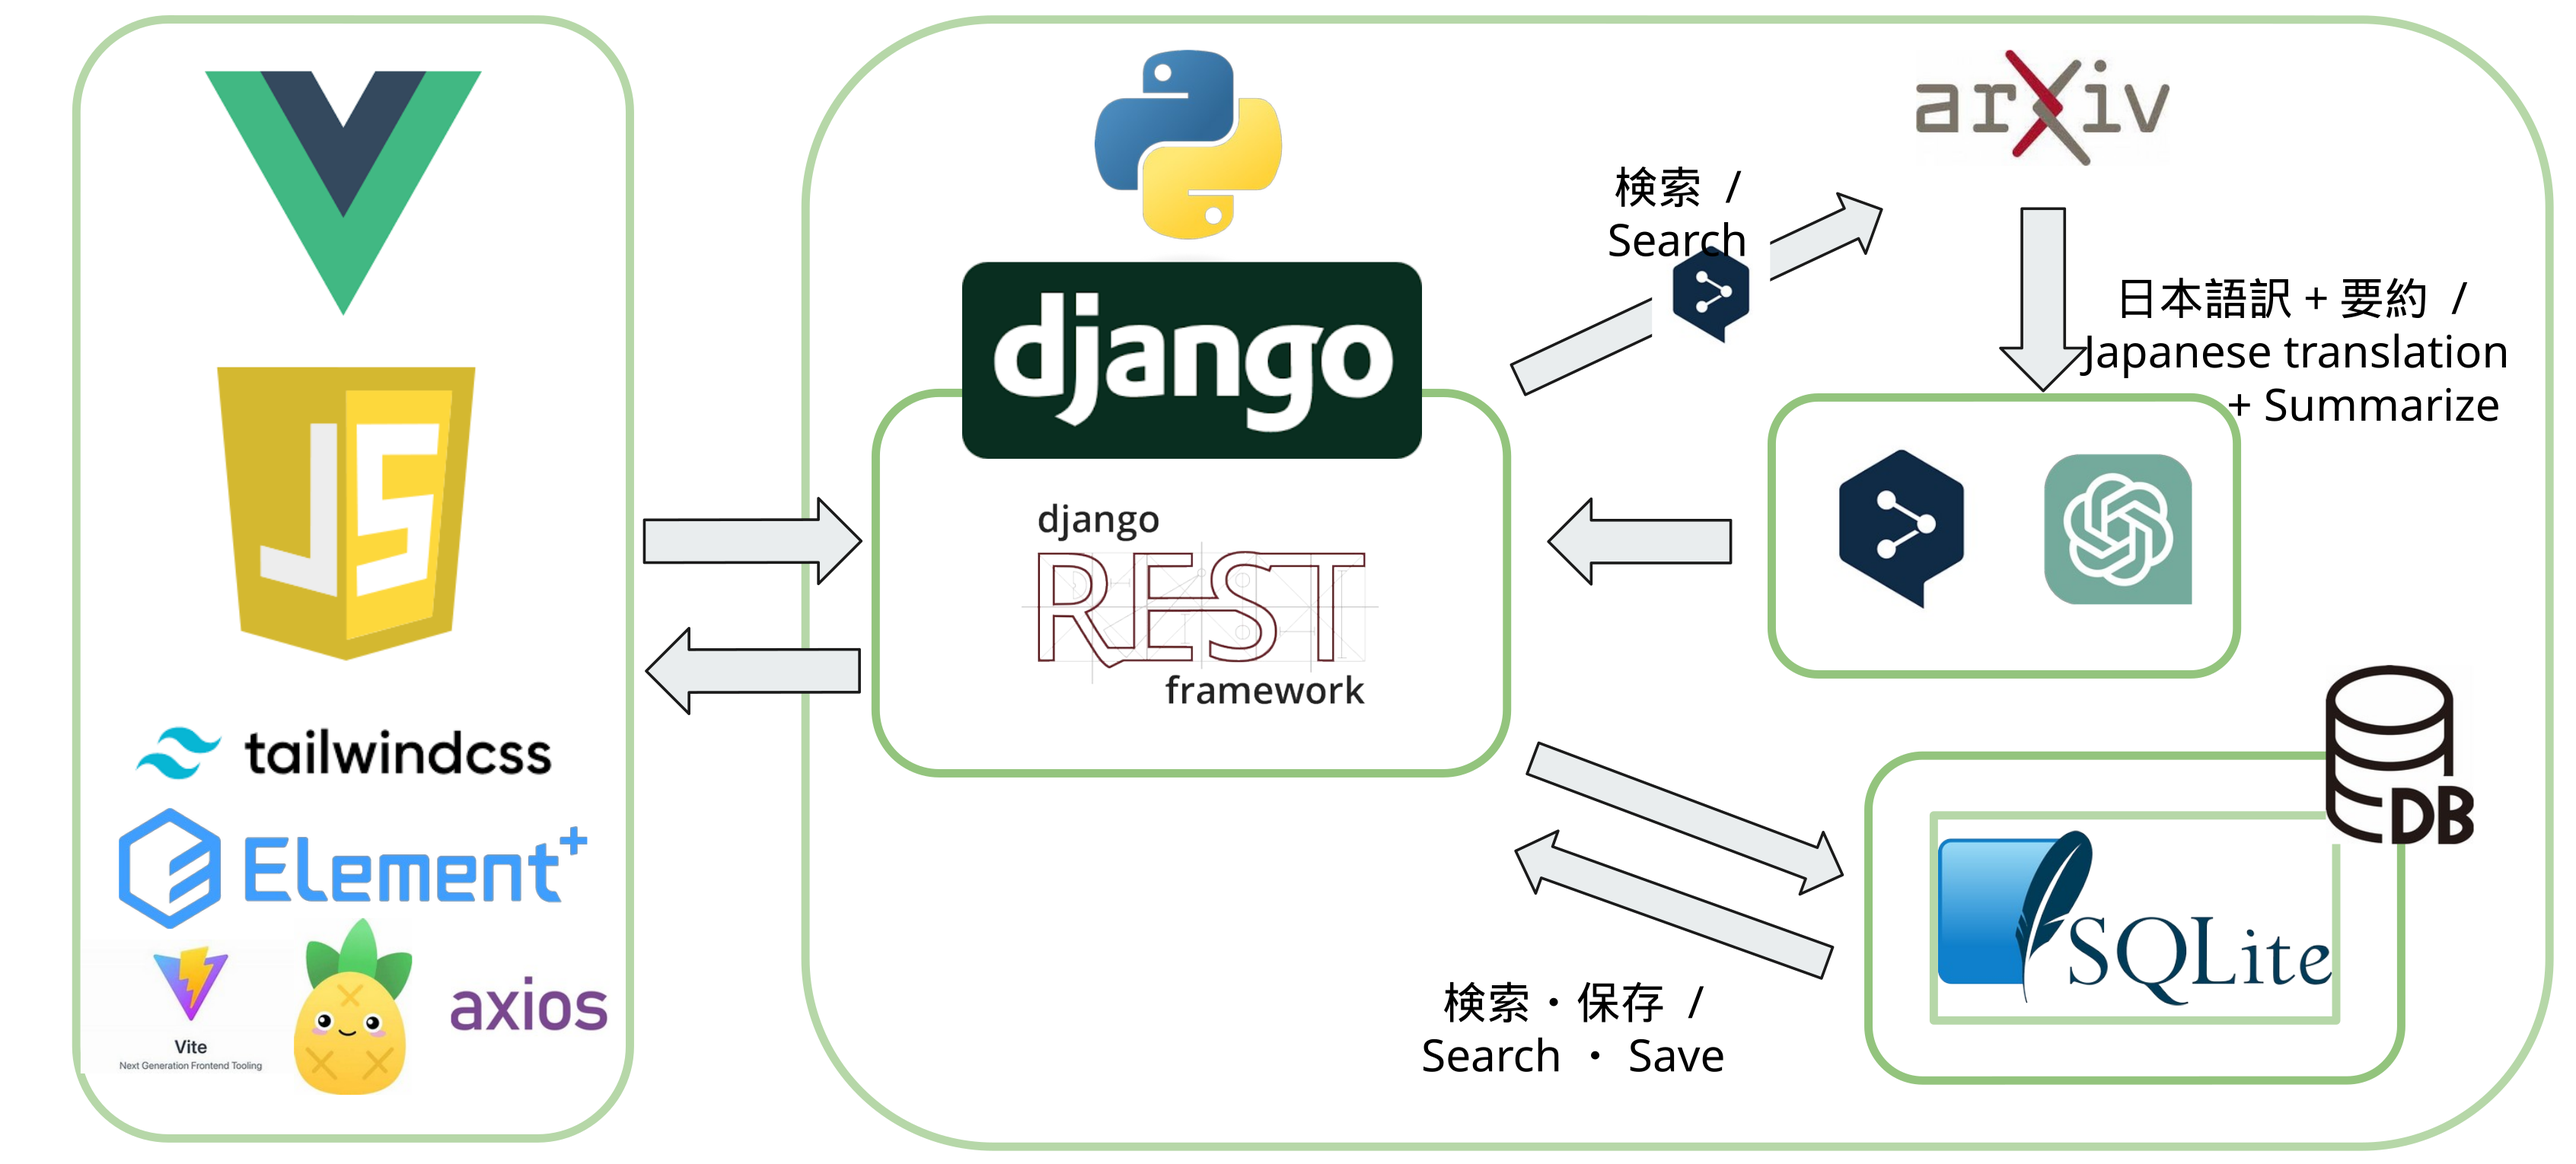
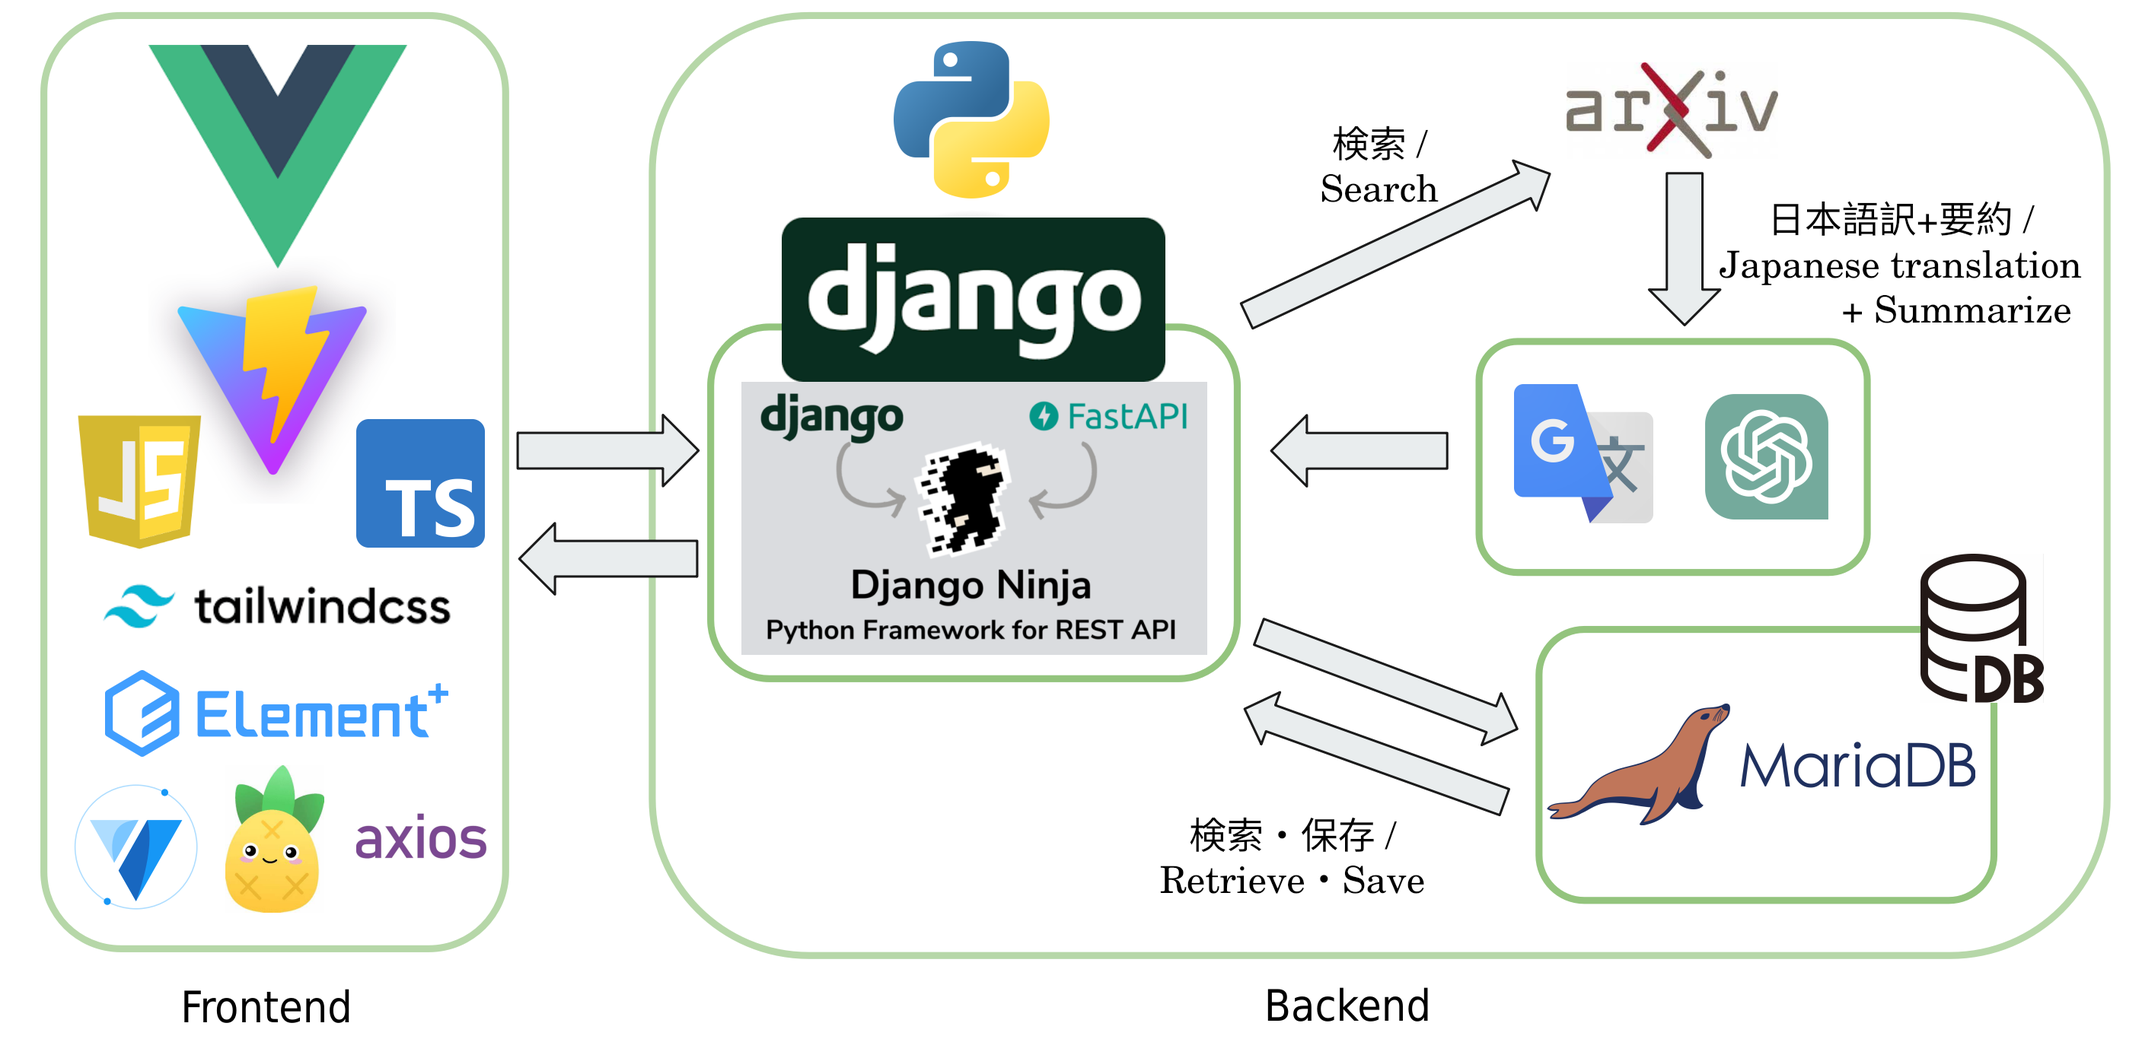
update README

diff --git a/server/django_ninja_version/arXiv_friends/settings.py b/server/django_ninja_version/arXiv_friends/settings.py
@@ -102,7 +102,7 @@ DATABASES = {
     "default": {
         "ENGINE": "django.db.backends.mysql",
         "OPTIONS": {
-            "read_default_file": BASE_DIR / "my.cnf",
+            "read_default_file": BASE_DIR / "mariadb.cnf",
         },
     }
 }

diff --git a/README.md b/README.md
@@ -5,14 +5,6 @@
 
 https://github.com/hl-tang/arXiv-friends/assets/98689797/26dcb3f8-3b1e-4b6b-8cee-f3d494222714
 
-## 画面
-
-home_page
-![home_page](./asset/home_page.png)
-
-detail_paper
-![detail_paper](asset/detail_paper.png)
-
 ## 主な機能
 
 - arXivから論文検索
@@ -26,3 +18,6 @@ detail_paper
 
 ![Architecture](./asset/Architecture.png)
 
+## Database Design
+
+![db_design](./asset/db_design.png)
